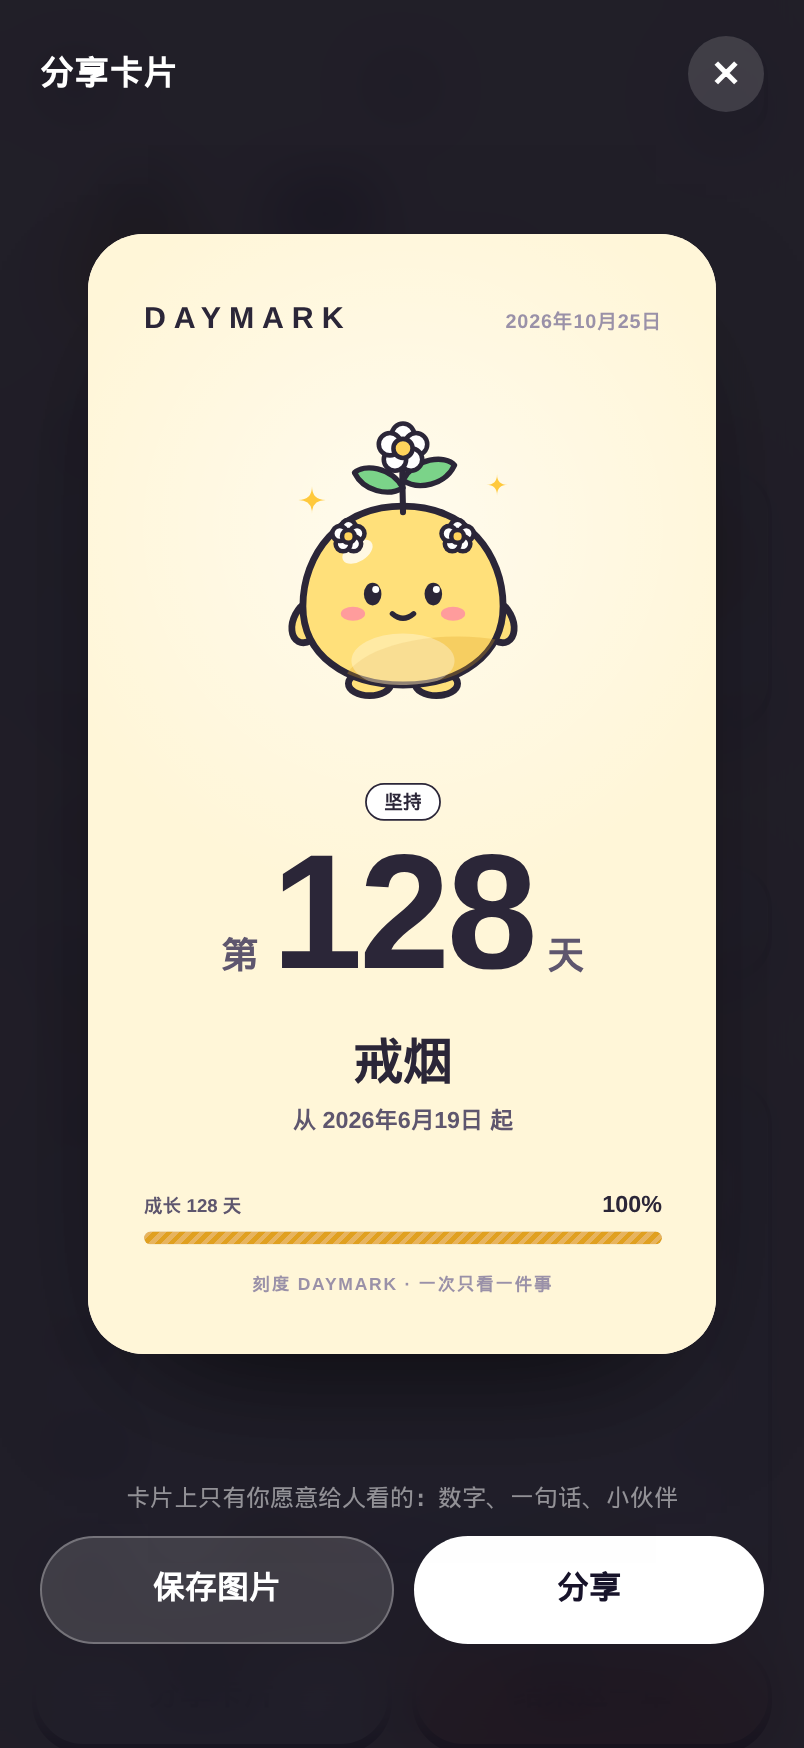
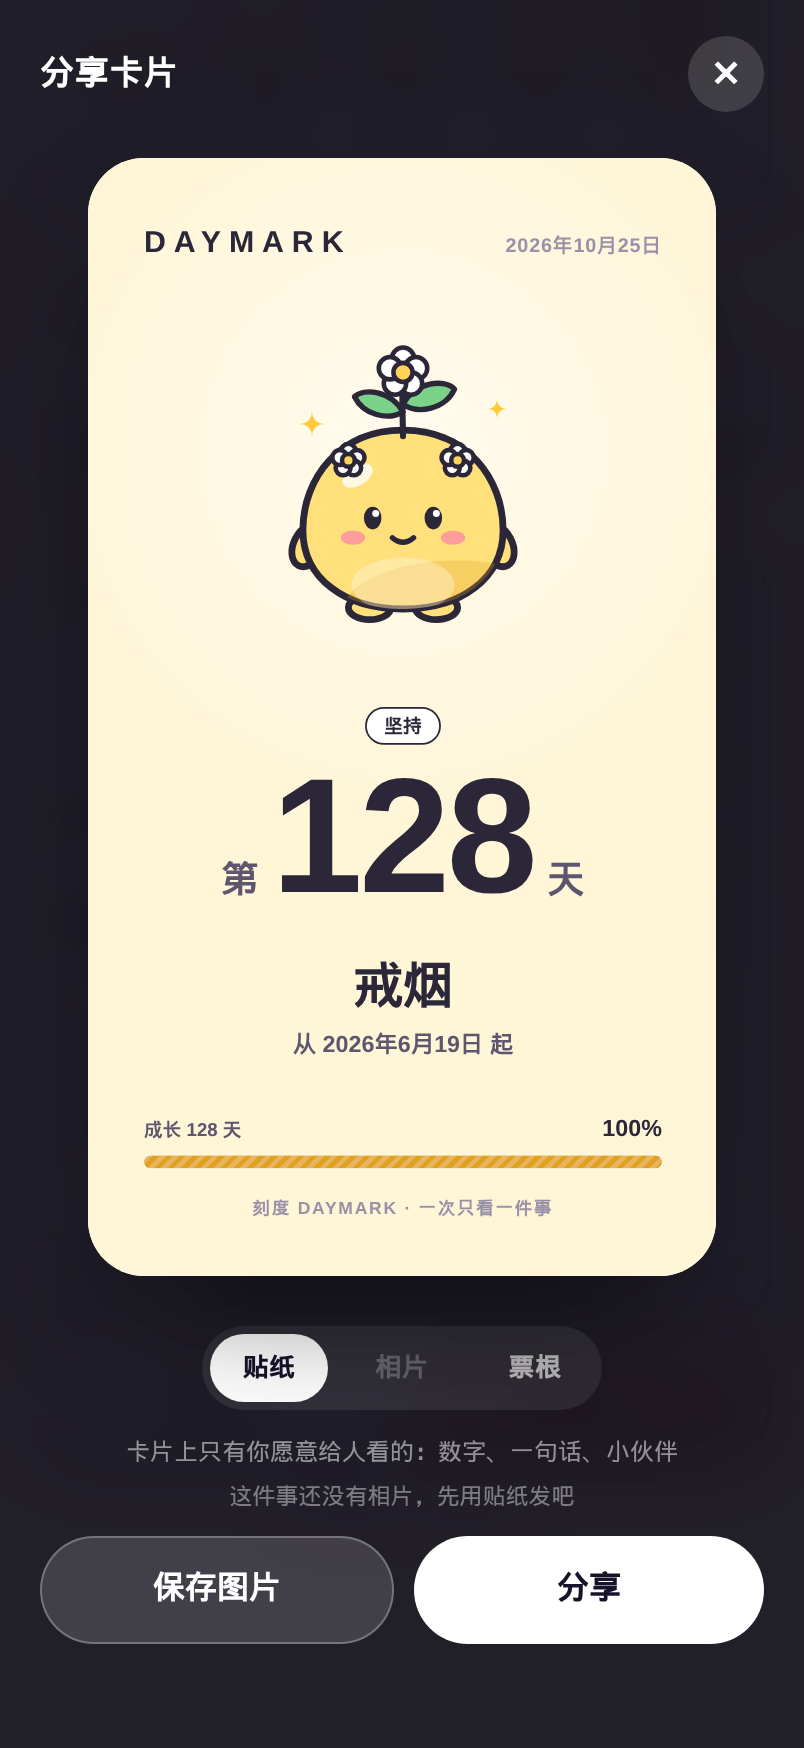
merge: 分享卡扩展到贴纸 / 相片 / 票根三套模板
- 三个 tab 在分享面板里切换，预览与导出一致；没有相片时「相片」置灰并给一句提示
- 票根：上下打孔虚线 + 两侧半圆缺口、入场券字头、超大天数居中、日期与 NO. 序列号（稳定不随机）
- 相片：cover 裁剪铺满 + 三层压暗渐变，白字可读；无相片自动退回贴纸
- src/lib/sharefit.ts 承载裁剪与几何纯函数，新增 18 个用例
- 单测 182 → 200 全绿
- 实测（真构建 + playwright）：三 tab 切换 class 正确；从应用内导出
  daymark-since-128d-2026-10-25-ticket.png 与贴纸版都是 1080×1920，无 console error

Changed region(s): [[0.0933, 0.1854, 0.9017, 0.865], [0.0933, 0.0927, 0.9017, 0.1854], [0.7774, 0.8032, 0.8396, 0.865]]

diff --git a/docs/plan-v4-gaps.md b/docs/plan-v4-gaps.md
@@ -11,7 +11,7 @@
 | 2 | **倒数日的备忘 + 待办** | `demo.js` `D · 记事提醒` | ✅ 已落地（备忘失焦即存、待办可勾可删） | P0 |
 | 3 | **首次见面的孵化仪式** | `demo.js` `A · 首次见面` | ✅ 已落地（三下破壳，只播一次） | P0 |
 | 4 | **结束本章要留一句话** | `demo.js` `F` / 「告别仪式」 | ✅ 已落地（写进 `Chapter.line`） | P1 |
-| 5 | **分享卡三种模板** | `demo.js` `H` / 「贴纸 / 相片 / 票根」 | 只有贴纸一种 | P1（依赖 #1，现已解锁） |
+| 5 | **分享卡三种模板** | `demo.js` `H` / 「贴纸 / 相片 / 票根」 | ✅ 已落地（三 tab 切换，无相片时「相片」置灰） | P1 |
 | 6 | **音效** | `demo.js` `B · 每天的小循环` | ✅ 已落地（tap / settle / evolve / stamp，跟着开关走） | P1 |
 | 7 | **就是今天的小庆祝** | `demo.js` `D` / 「到了那一天」 | ✅ 已落地（派对帽 + 彩纸，一天一次） | P1 |
 | 8 | **合上书飞进藏馆的过场** | `demo.js` `F` / 「合上：书飞进藏馆」 | 归档后没有任何过场 | P2 |

diff --git a/README.md b/README.md
@@ -40,7 +40,6 @@
 
 ### 还没做
 
-- 分享卡的相片 / 票根两套模板（在 `feat/share-templates` 分支上做）
 - WidgetKit 小组件（需要 Xcode）
 - App Store 账号、名称查重、真实 IAP 商品
 
